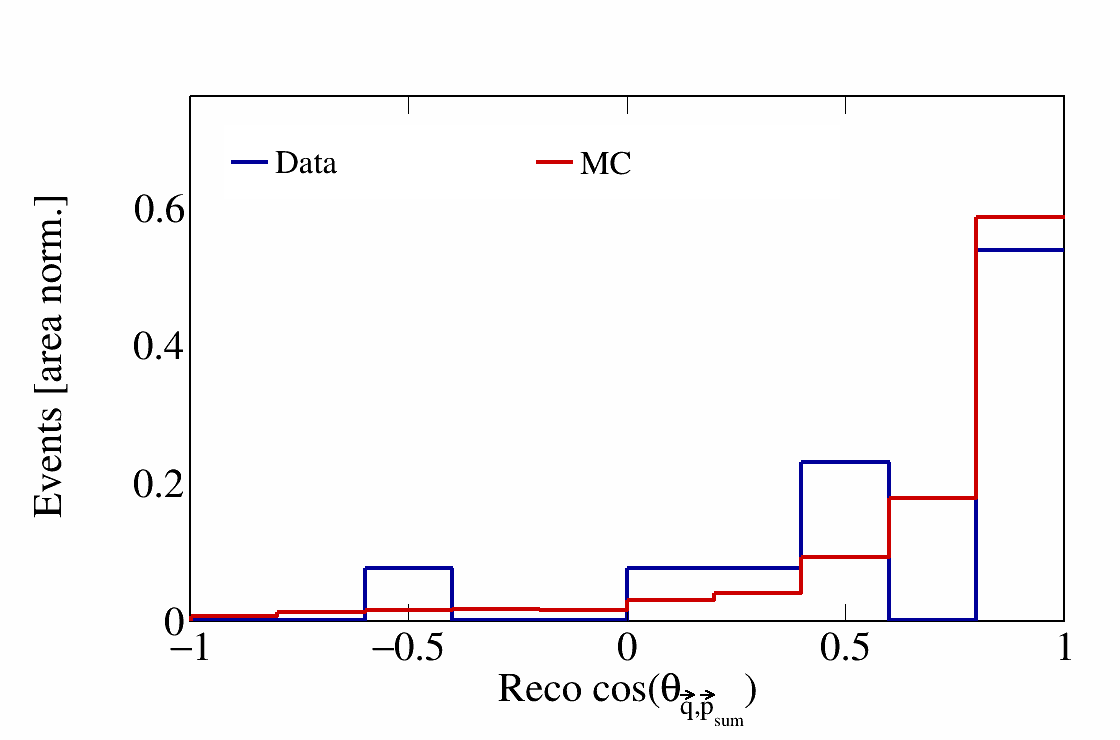
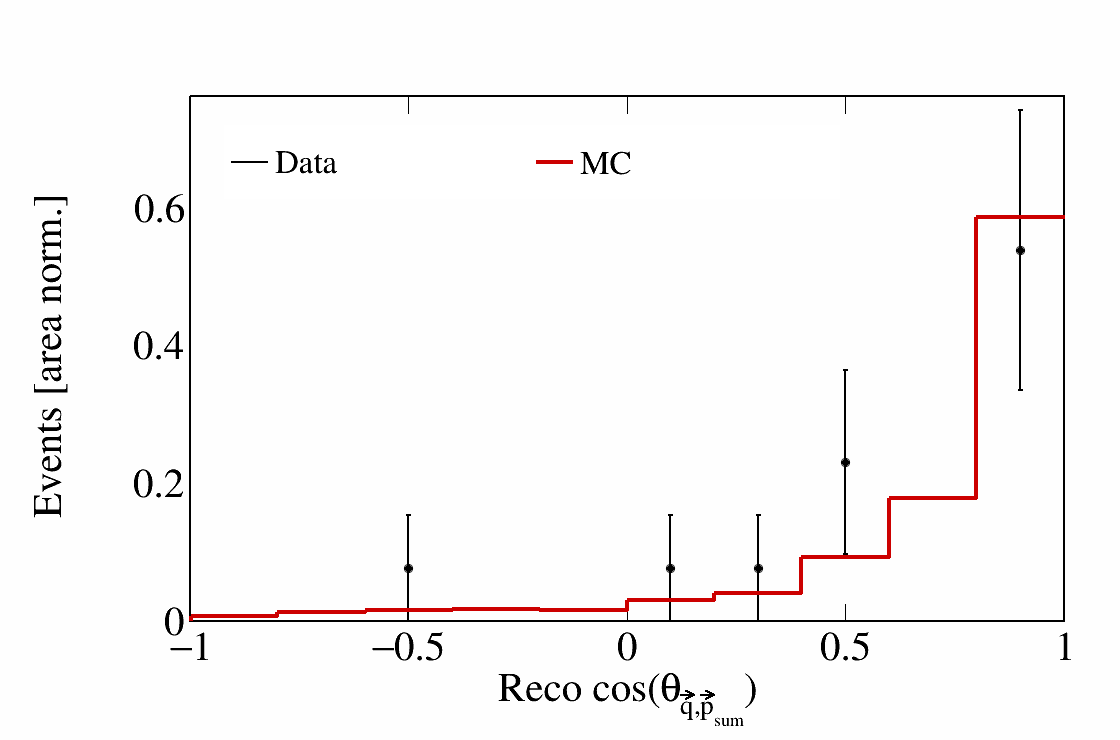
Use dots for data

diff --git a/CAFAnaAnalysis/Scripts/SelectionData.C b/CAFAnaAnalysis/Scripts/SelectionData.C
@@ -99,8 +99,10 @@ void SelectionData() {
         MCHist->Scale(1 / MCArea);
 
         TLegendEntry* legData = leg->AddEntry(RecoHist,"Data","l");
-        RecoHist->SetLineColor(kBlue+2);
-        RecoHist->SetLineWidth(4);
+        RecoHist->SetLineColor(kBlack);
+        RecoHist->SetMarkerColor(kBlack);
+        RecoHist->SetMarkerStyle(20);
+        RecoHist->SetMarkerSize(1.);
 
         TLegendEntry* legMC = leg->AddEntry(MCHist,"MC","l");
         MCHist->SetLineColor(kRed+1);
@@ -128,7 +130,7 @@ void SelectionData() {
         double Max = std::max(RecoHist->GetMaximum(), MCHist->GetMaximum());
         RecoHist->GetYaxis()->SetRangeUser(0., Max * 1.3);
         PlotCanvas->cd();
-        RecoHist->Draw("hist");
+        RecoHist->Draw("e1x0");
         MCHist->Draw("hist same");
         leg->Draw();
         PlotCanvas->SaveAs(dir+"/Figs/CAFAna/DataCounts/"+PlotNames[iVar]+".png");
@@ -168,8 +170,10 @@ void SelectionData() {
         MCHist->Scale(1 / MCArea);
 
         TLegendEntry* legData = leg->AddEntry(RecoHist,"Data","l");
-        RecoHist->SetLineColor(kBlue+2);
-        RecoHist->SetLineWidth(4);
+        RecoHist->SetLineColor(kBlack);
+        RecoHist->SetMarkerColor(kBlack);
+        RecoHist->SetMarkerStyle(20);
+        RecoHist->SetMarkerSize(1.);
 
         TLegendEntry* legMC = leg->AddEntry(MCHist,"MC","l");
         MCHist->SetLineColor(kRed+1);
@@ -197,7 +201,7 @@ void SelectionData() {
         double Max = std::max(RecoHist->GetMaximum(), MCHist->GetMaximum());
         RecoHist->GetYaxis()->SetRangeUser(0., Max * 1.3);
         PlotCanvas->cd();
-        RecoHist->Draw("hist");
+        RecoHist->Draw("e1x0");
         MCHist->Draw("hist same");
         leg->Draw();
         PlotCanvas->SaveAs(dir+"/Figs/CAFAna/DataCounts/NoCut/"+NoCutNames[iVar - Vars.size()]+".png");
